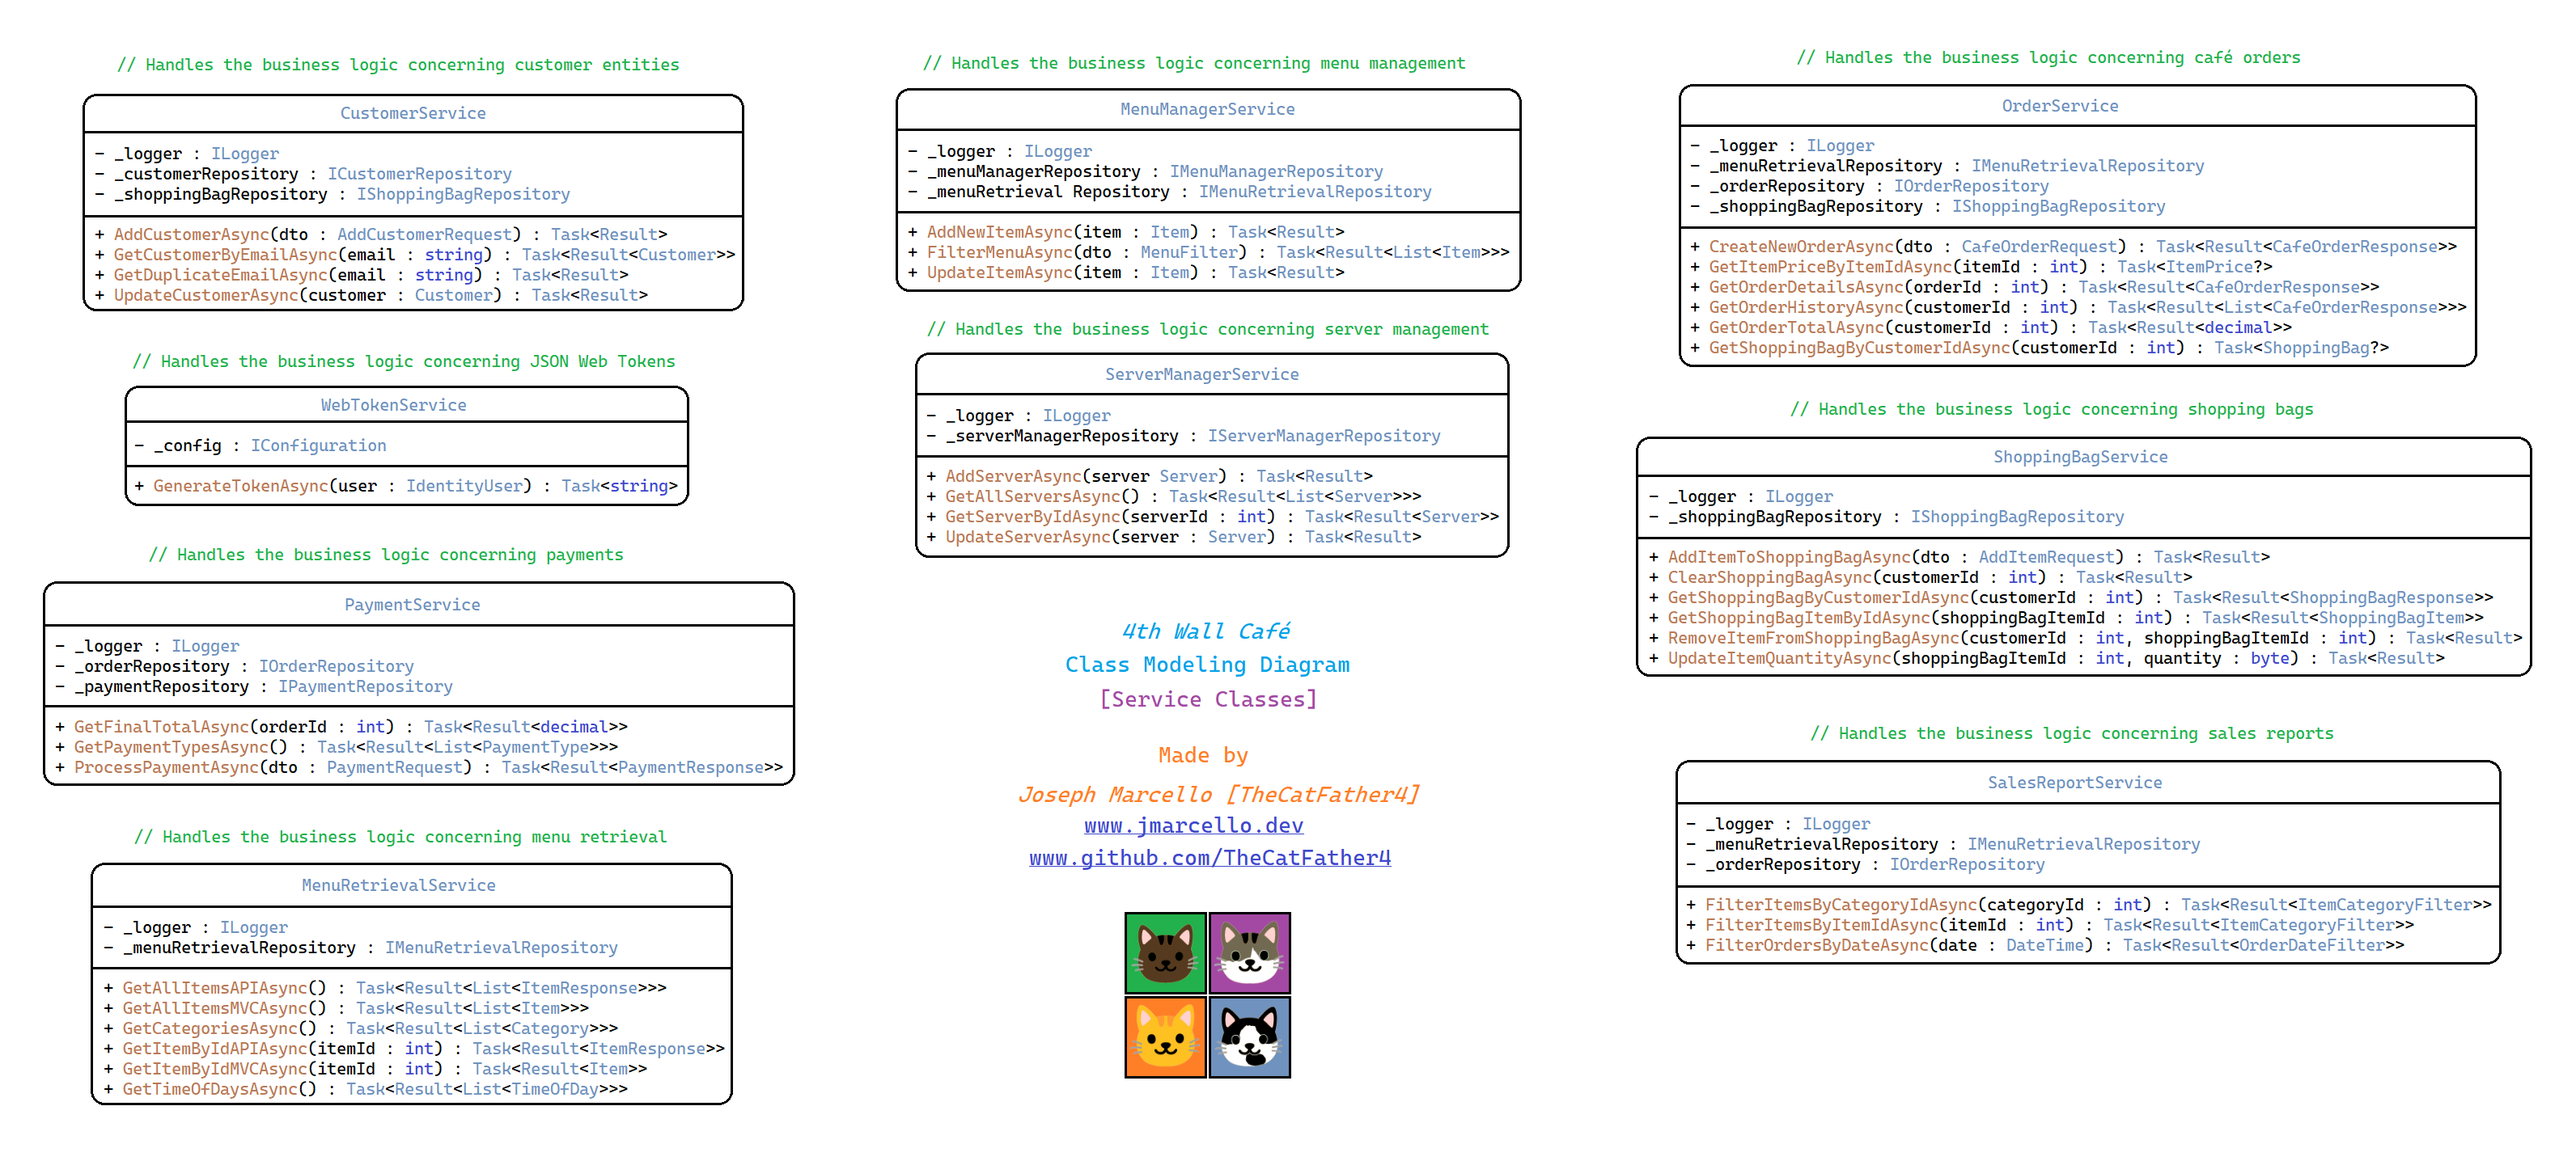
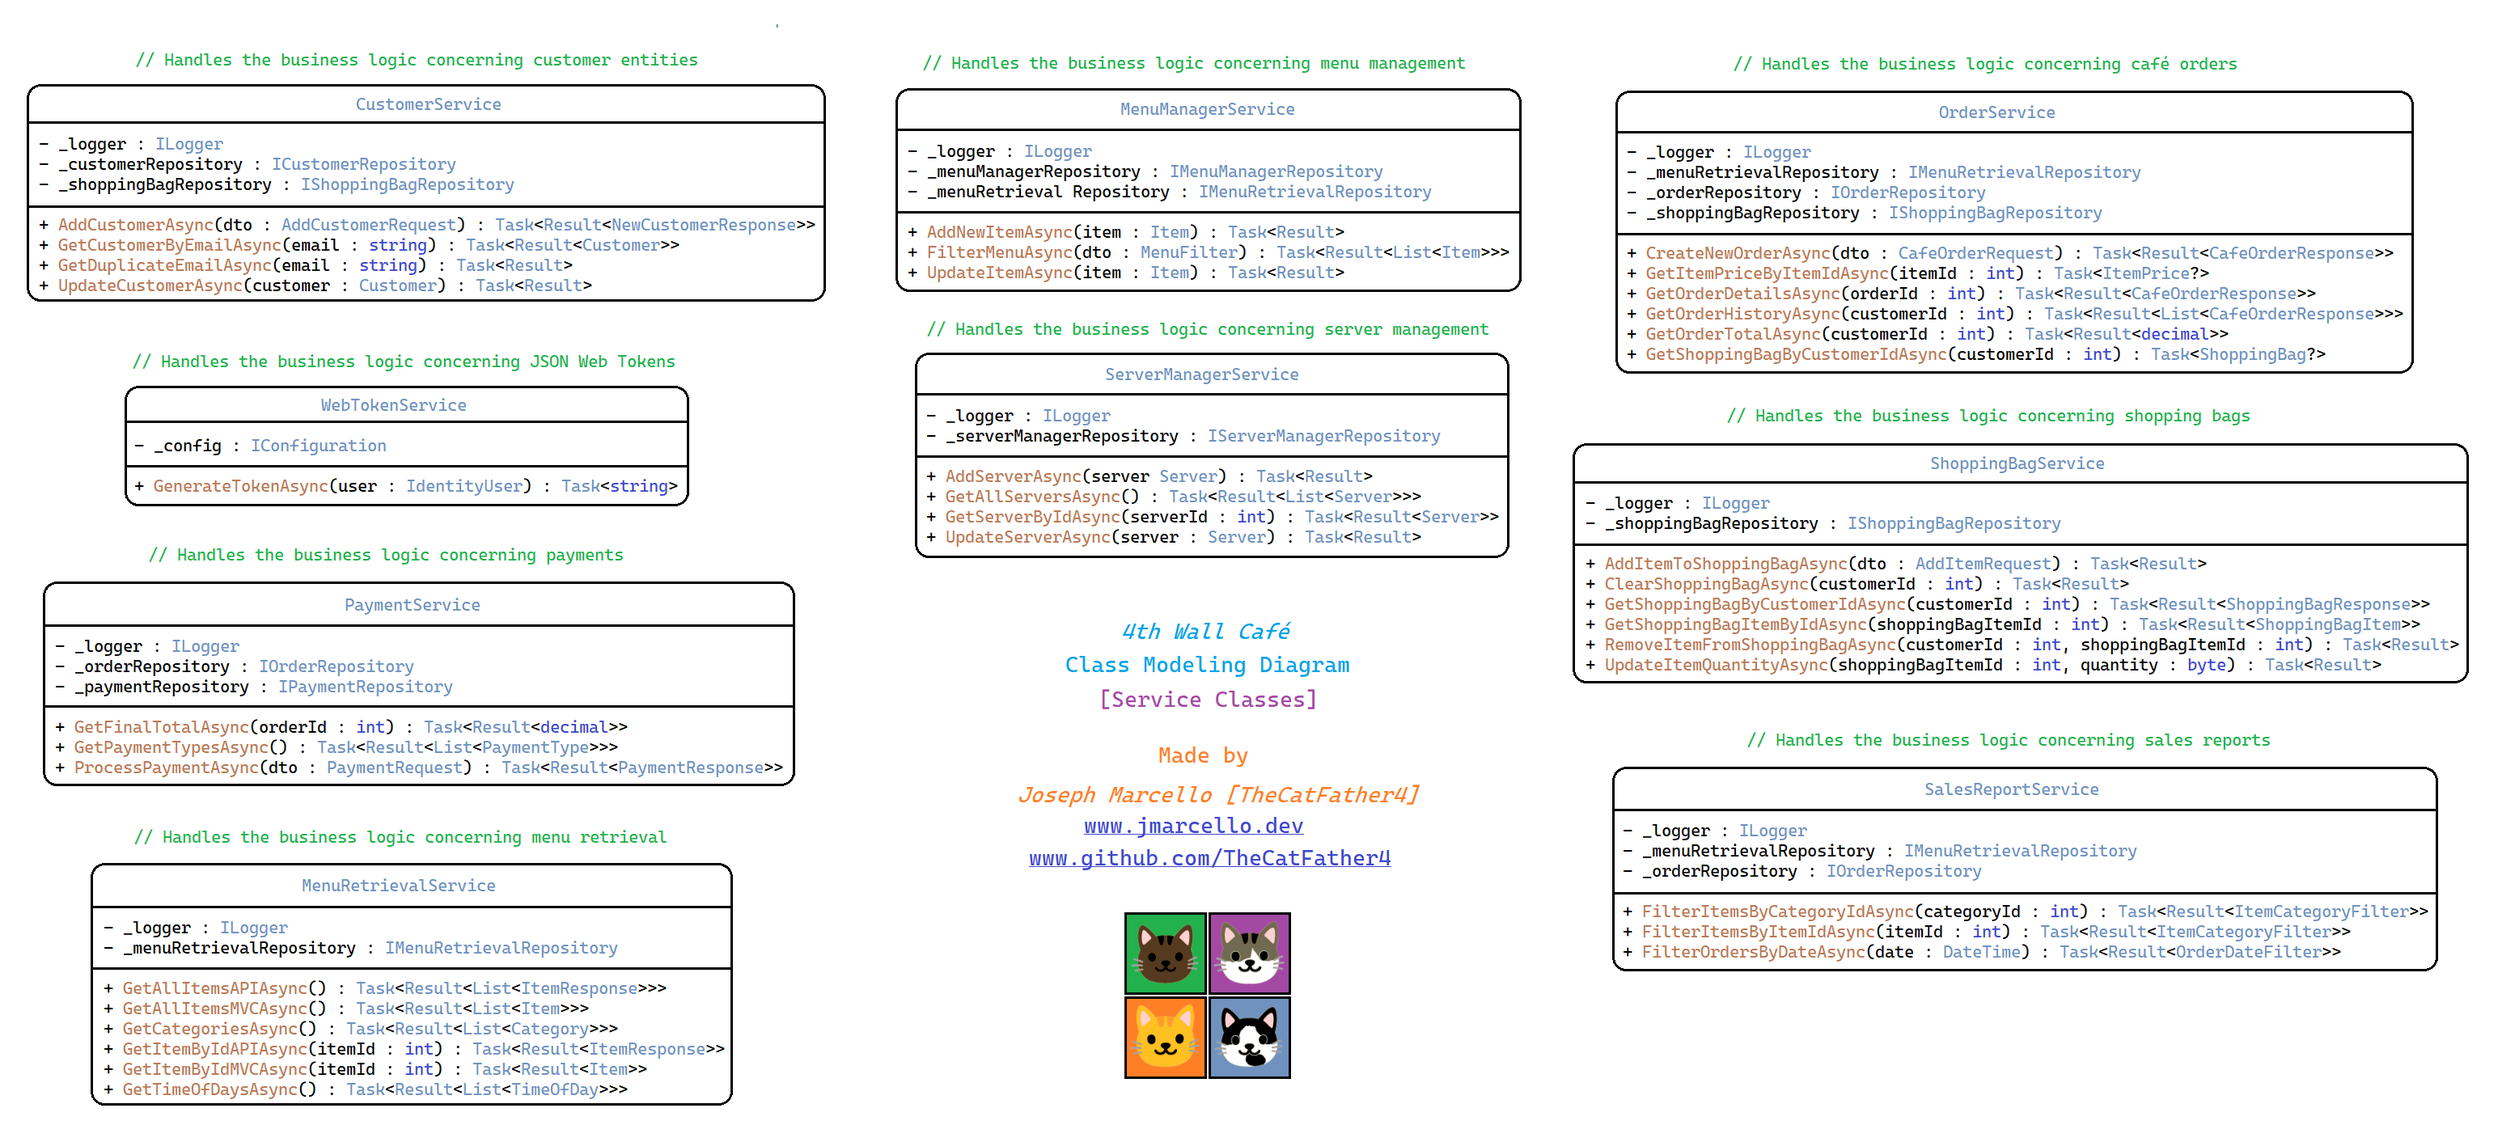
Added new DTO
I added a new response DTO class to return customer and shopping bag IDs to the client upon registering a new customer with the café.

The interface, service class, and class modeling diagram was updated accordingly.

diff --git a/Portfolio/Cafe.BLL/Services/CustomerService.cs b/Portfolio/Cafe.BLL/Services/CustomerService.cs
@@ -1,5 +1,6 @@
 using Cafe.Core.DTOs;
 using Cafe.Core.DTOs.Requests;
+using Cafe.Core.DTOs.Responses;
 using Cafe.Core.Entities;
 using Cafe.Core.Interfaces.Repositories;
 using Cafe.Core.Interfaces.Services;
@@ -30,15 +31,13 @@ namespace Cafe.BLL.Services
         }
 
         /// <summary>
-        /// An ICustomerRepository method is invoked to create a new Customer record. If successful, a ShoppingBag is created for the
-        /// Customer. The new record is then updated with the new ShoppingBagID.
+        /// Creates a new customer record. If successful, a new shopping bag record is created for the
+        /// customer. The new customer record is then updated with the new shopping bag ID.
         /// </summary>
-        /// <param name="dto">The data required to create a new Customer record. The data is mapped to a new Customer instance.</param>
-        /// <returns>A Result DTO with a confirmation message.</returns>
-        public async Task<Result> AddCustomerAsync(AddCustomerRequest dto)
+        /// <param name="dto">The data required to create a new customer record.</param>
+        /// <returns>A response DTO with the customer ID and shopping bag ID of the newly created customer record.</returns>
+        public async Task<Result<NewCustomerResponse>> AddCustomerAsync(AddCustomerRequest dto)
         {
-            // If using Entity Framework Core:
-            // The CustomerID property will be automatically assigned to this object instance.
             var customer = new Customer
             {
                 FirstName = dto.FirstName,
@@ -52,11 +51,10 @@ namespace Cafe.BLL.Services
             if (customerId == 0)
             {
                 _logger.LogError($"Customer Id returned with a value of: {customerId} ");
-                return ResultFactory.Fail("An error occurred. Please try again in a few minutes.");
+                return ResultFactory.Fail<NewCustomerResponse>("An error occurred. Please try again in a few minutes.");
             }
 
-            // If using Dapper:
-            // The CustomerID property must be manually assigned to the object instance.
+            // If the application is using the Dapper database mode, the CustomerID property must be manually assigned.
             if (customer.CustomerID == 0)
             {
                 customer.CustomerID = customerId;
@@ -67,19 +65,26 @@ namespace Cafe.BLL.Services
                 CustomerID = customerId
             };
 
-            // Create a new ShoppingBag for the Customer.
+            // Create a new shopping bag for the customer.
             var shoppingBagId = await _shoppingBagRepository.CreateShoppingBagAsync(shoppingBag);
 
             if (shoppingBagId == 0)
             {
                 _logger.LogError($"Shopping Bag Id returned with a value of: {shoppingBagId}");
-                return ResultFactory.Fail("An error occurred. Please try again in a few minutes.");
+                return ResultFactory.Fail<NewCustomerResponse>("An error occurred. Please try again in a few minutes.");
             }
 
-            // Update Customer record.
+            // Update the customer record.
             customer.ShoppingBagID = shoppingBagId;
             await _customerRepository.UpdateCustomerAsync(customer);
-            return ResultFactory.Success("New customer successfully registered!");
+
+            var response = new NewCustomerResponse
+            {
+                CustomerID = customer.CustomerID,
+                ShoppingBagID = shoppingBagId
+            };
+
+            return ResultFactory.Success(response);
         }
 
         /// <summary>

diff --git a/Portfolio/Portfolio/ApiControllers/CustomerController.cs b/Portfolio/Portfolio/ApiControllers/CustomerController.cs
@@ -1,4 +1,5 @@
 using Cafe.Core.DTOs.Requests;
+using Cafe.Core.DTOs.Responses;
 using Cafe.Core.Interfaces.Services;
 using Microsoft.AspNetCore.Identity;
 using Microsoft.AspNetCore.Mvc;
@@ -33,15 +34,15 @@ namespace Portfolio.ApiControllers
         }
 
         /// <summary>
-        /// Registers a new customer and creates a new identity for authentication.
+        /// Registers a new customer with the café.
         /// </summary>
-        /// <param name="dto">A DTO containing the data required for registering a new customer. 
-        /// Note: The identityId value is generated by the controller method. Only the first four values are required.</param>
-        /// <response code="200">Success message.</response>
-        /// <response code="400">Email already exists for a customer.</response>
+        /// <param name="dto">A request DTO containing the data required for registering a new customer. 
+        /// Note: The identityId value is generated by the controller method. Only the first four values are required in the request body.</param>
+        /// <response code="200">Returns the customer ID and the shopping bag ID of the new customer record.</response>
+        /// <response code="400">Email already exists for a customer or the model state is invalid.</response>
         /// <response code="500">Server side error.</response>
         [HttpPost("register")]
-        [ProducesResponseType(typeof(string), StatusCodes.Status200OK)]
+        [ProducesResponseType(typeof(NewCustomerResponse), StatusCodes.Status200OK)]
         [ProducesResponseType(typeof(string), StatusCodes.Status400BadRequest)]
         [ProducesResponseType(typeof(string), StatusCodes.Status500InternalServerError)]
         public async Task<IActionResult> Register([FromBody] AddCustomerRequest dto)
@@ -74,7 +75,7 @@ namespace Portfolio.ApiControllers
 
                 if (newCustomerResult.Ok)
                 {
-                    return Ok("User registered successfully");
+                    return Ok(newCustomerResult.Data);
                 }
 
                 return StatusCode(500, newCustomerResult.Message);

diff --git a/Portfolio/Portfolio/Controllers/AccountController.cs b/Portfolio/Portfolio/Controllers/AccountController.cs
@@ -42,10 +42,10 @@ namespace Portfolio.Controllers
         }
 
         /// <summary>
-        /// Registers a new user with the café.
+        /// Registers a new customer with the café. If successful, the customer is signed in and given a new shopping bag.
         /// </summary>
         /// <param name="model">A model used to register new customers.</param>
-        /// <returns>A webpage with a confirmation message depending on the results.</returns>
+        /// <returns>A RedirectToActionResult that sends the user to the café's homepage.</returns>
         [HttpPost]
         [ValidateAntiForgeryToken]
         public async Task<IActionResult> Register(RegisterUserForm model)
@@ -85,7 +85,7 @@ namespace Portfolio.Controllers
                     {
                         await _signInManager.SignInAsync(user, isPersistent: false);
 
-                        TempData["Alert"] = Alert.CreateSuccess(customerResult.Message);
+                        TempData["Alert"] = Alert.CreateSuccess("New account successfully registered!");
                         return RedirectToAction("Cafe", "Home");
                     }
 

diff --git a/Portfolio/Cafe.Core/Interfaces/Services/ICustomerService.cs b/Portfolio/Cafe.Core/Interfaces/Services/ICustomerService.cs
@@ -1,12 +1,13 @@
 using Cafe.Core.DTOs;
 using Cafe.Core.DTOs.Requests;
+using Cafe.Core.DTOs.Responses;
 using Cafe.Core.Entities;
 
 namespace Cafe.Core.Interfaces.Services
 {
     public interface ICustomerService
     {
-        Task<Result> AddCustomerAsync(AddCustomerRequest dto);
+        Task<Result<NewCustomerResponse>> AddCustomerAsync(AddCustomerRequest dto);
         Task<Result<Customer>> GetCustomerByEmailAsync(string email);
         Task<Result> GetDuplicateEmailAsync(string email);
         Task<Result> UpdateCustomerAsync(Customer customer);

diff --git a/Portfolio/Cafe.Core/DTOs/Responses/NewCustomerResponse.cs b/Portfolio/Cafe.Core/DTOs/Responses/NewCustomerResponse.cs
@@ -1,0 +1,11 @@
+namespace Cafe.Core.DTOs.Responses
+{
+    /// <summary>
+    /// Used to send the customer ID and shopping bag ID of a newly created Customer record to the client.
+    /// </summary>
+    public class NewCustomerResponse
+    {
+        public int CustomerID { get; set; }
+        public int ShoppingBagID { get; set; }
+    }
+}
